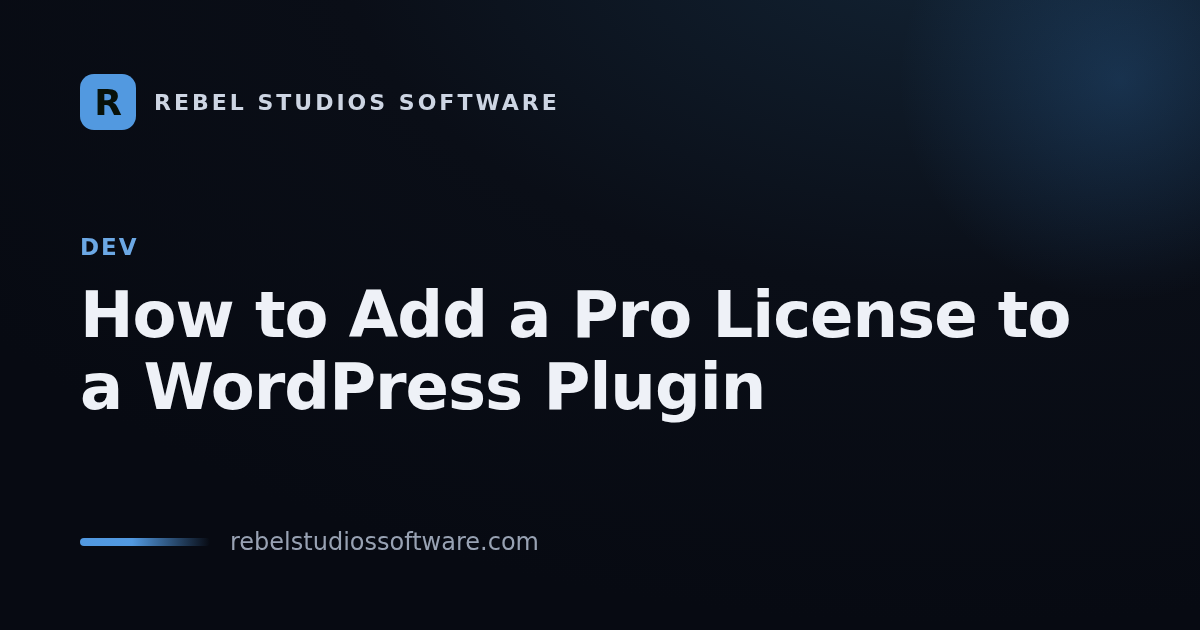
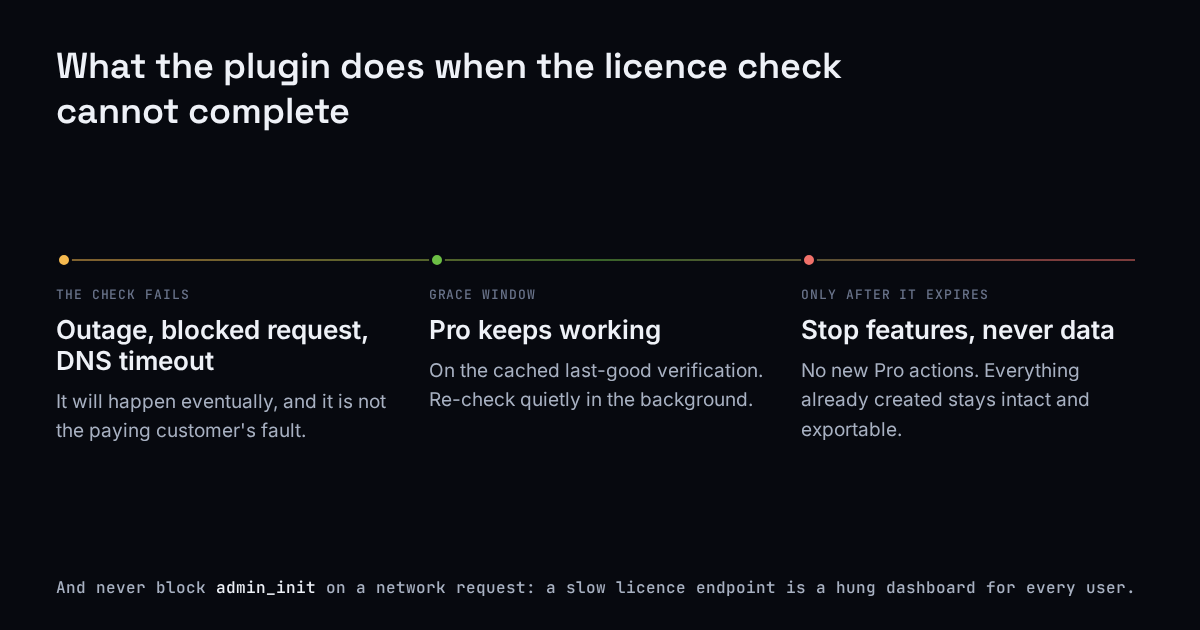
blog: a real share card for the Pro-licence post, on the part of it nobody else draws
The post was still sharing on the stock title-card template - our logo, the
headline, the domain - which is the default-everything look the house rules call
out. Its most opinionated section is what happens when the licence check cannot
complete, so that is what the card now shows: the check fails, Pro keeps working
through a grace window on the cached last-good verification, and only after that
expires do features stop while the customer's data stays intact and exportable.

No number is claimed that the post does not already make; the post says a week or
two is "common" rather than ours, so the card names the window without a figure.

Two defects found by looking at the render instead of trusting it: the column
class "n" collides with art.css's amber syntax-highlight class, which painted
every heading amber (measured off the pixels, not guessed), and the first spacing
left a dead band above the footer.

diff --git a/art/wordpress-plugin-pro-license.html b/art/wordpress-plugin-pro-license.html
@@ -1,0 +1,36 @@
+<!doctype html><meta charset="utf-8"><meta name="robots" content="noindex"><link rel="stylesheet" href="art.css">
+<!-- blog-wordpress-plugin-pro-license: the article's licensing-failure rule: fail open for a grace
+     window on the cached last-good check, then stop features and never data. -->
+<style>
+  .wrap{position:absolute;inset:44px 56px}
+  h1{font:600 36px/1.25 'Space Grotesk',sans-serif;max-width:900px}
+  .tl{position:relative;margin-top:118px}
+  .line{position:absolute;top:7px;left:9px;right:9px;height:2px;
+        background:linear-gradient(90deg,var(--amber) 8%,var(--green) 50%,var(--red) 92%);opacity:.5}
+  .cols{position:relative;display:grid;grid-template-columns:repeat(3,1fr);gap:30px}
+  .dot{display:block;width:16px;height:16px;border-radius:50%;border:3px solid var(--bg);position:relative;z-index:2}
+  .a{background:var(--amber)}.g{background:var(--green)}.r{background:var(--red)}
+  .when{margin-top:18px;font:500 13px 'JetBrains Mono',monospace;color:var(--ink3);text-transform:uppercase;letter-spacing:.07em}
+  .step b{display:block;font:600 26px Inter,sans-serif;margin-top:11px;color:var(--ink1)}
+  .step span{display:block;font:400 19px/1.55 Inter,sans-serif;color:var(--ink2);margin-top:11px}
+  .note{position:absolute;left:56px;right:56px;bottom:30px;font:500 16px/1.5 'JetBrains Mono',monospace;color:var(--ink2)}
+  .note b{color:var(--ink1);font-weight:500}
+</style>
+<div class="wrap">
+  <h1>What the plugin does when the licence check cannot complete</h1>
+  <div class="tl">
+    <div class="line"></div>
+    <div class="cols">
+      <div class="step"><i class="dot a"></i>
+        <div class="when">the check fails</div><b>Outage, blocked request, DNS timeout</b>
+        <span>It will happen eventually, and it is not the paying customer's fault.</span></div>
+      <div class="step"><i class="dot g"></i>
+        <div class="when">grace window</div><b>Pro keeps working</b>
+        <span>On the cached last-good verification. Re-check quietly in the background.</span></div>
+      <div class="step"><i class="dot r"></i>
+        <div class="when">only after it expires</div><b>Stop features, never data</b>
+        <span>No new Pro actions. Everything already created stays intact and exportable.</span></div>
+    </div>
+  </div>
+</div>
+<div class="note">And never block <b>admin_init</b> on a network request: a slow licence endpoint is a hung dashboard for every user.</div>

diff --git a/blog.html b/blog.html
@@ -576,7 +576,7 @@
                     </div>
                 </li>
                 <li class="blog-row">
-                    <a class="blog-row-thumb" href="blog-wordpress-plugin-pro-license.html" tabindex="-1" aria-hidden="true"><img src="images/blog/wordpress-plugin-pro-license.png" alt="Adding a Pro license to a WordPress plugin the WordPress.org-compliant way: a free plugin plus a paid add-on with a verified license key" loading="lazy" width="200" height="105"></a>
+                    <a class="blog-row-thumb" href="blog-wordpress-plugin-pro-license.html" tabindex="-1" aria-hidden="true"><img src="images/blog/wordpress-plugin-pro-license.png" alt="" loading="lazy" width="200" height="105"></a>
                     <div class="blog-row-body">
                         <a class="blog-row-title" href="blog-wordpress-plugin-pro-license.html">How to Add a Pro License to a WordPress Plugin</a>
                         <div class="blog-row-meta"><span class="blog-row-date">September 7, 2026</span><span class="blog-row-cat">How-To</span></div>
